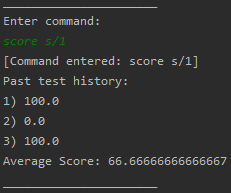
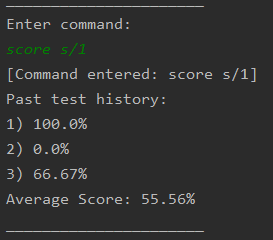
update UG for quiz and score

diff --git a/src/main/java/seedu/score/ScoreList.java b/src/main/java/seedu/score/ScoreList.java
@@ -29,7 +29,8 @@ public class ScoreList implements Serializable {
             totalScore += score;
         }
         double avgScore = totalScore / scores.size();
-        return avgScore;
+        double roundedAvg = (double) Math.round(avgScore * 100) / 100;
+        return roundedAvg;
     }
 
     /**

diff --git a/docs/UserGuide.md b/docs/UserGuide.md
@@ -110,20 +110,24 @@ Screenshot showing deletecard:
 ### Starting a Quiz
 Starts a quiz of the specified number of questions from the specified subject.
 
-Format: `quiz s/<INDEX> n/<NUMBER>`
+Format: `quiz s/<INDEX> n/<NUMBER>`  OR  `quiz s/<INDEX>`
 * The `INDEX` is based on the index of the subject. This can be found using the `listsubject` command.
 * The `NUMBER` is the number of questions the user wishes to be quizzed on.
+This is an optional field that can be omitted. 
+* If the `NUMBER` is not specified or if the `NUMBER` exceeds the total number of stored questions
+for that subject, ALL questions in that subject will be tested instead.
+* A quiz can be aborted early by inputting `exitquiz` anytime during the quiz.
 
 Example of Usage:
 * `quiz s/2 n/15`
-* `quiz s/1 n/5`
+* `quiz s/1`
 
 Screenshot showing quiz:
 
 ![](images/quiz.png)
 
 ### Viewing Past Scores
-Shows the previous scores of quizzes from the specified subject 
+Shows the previous scores of quizzes from the specified subject in chronological order.
 
 Format: `score s/<INDEX>`
 * The `INDEX` is based on the index of the subject. This can be found using the `listsubject` command.
